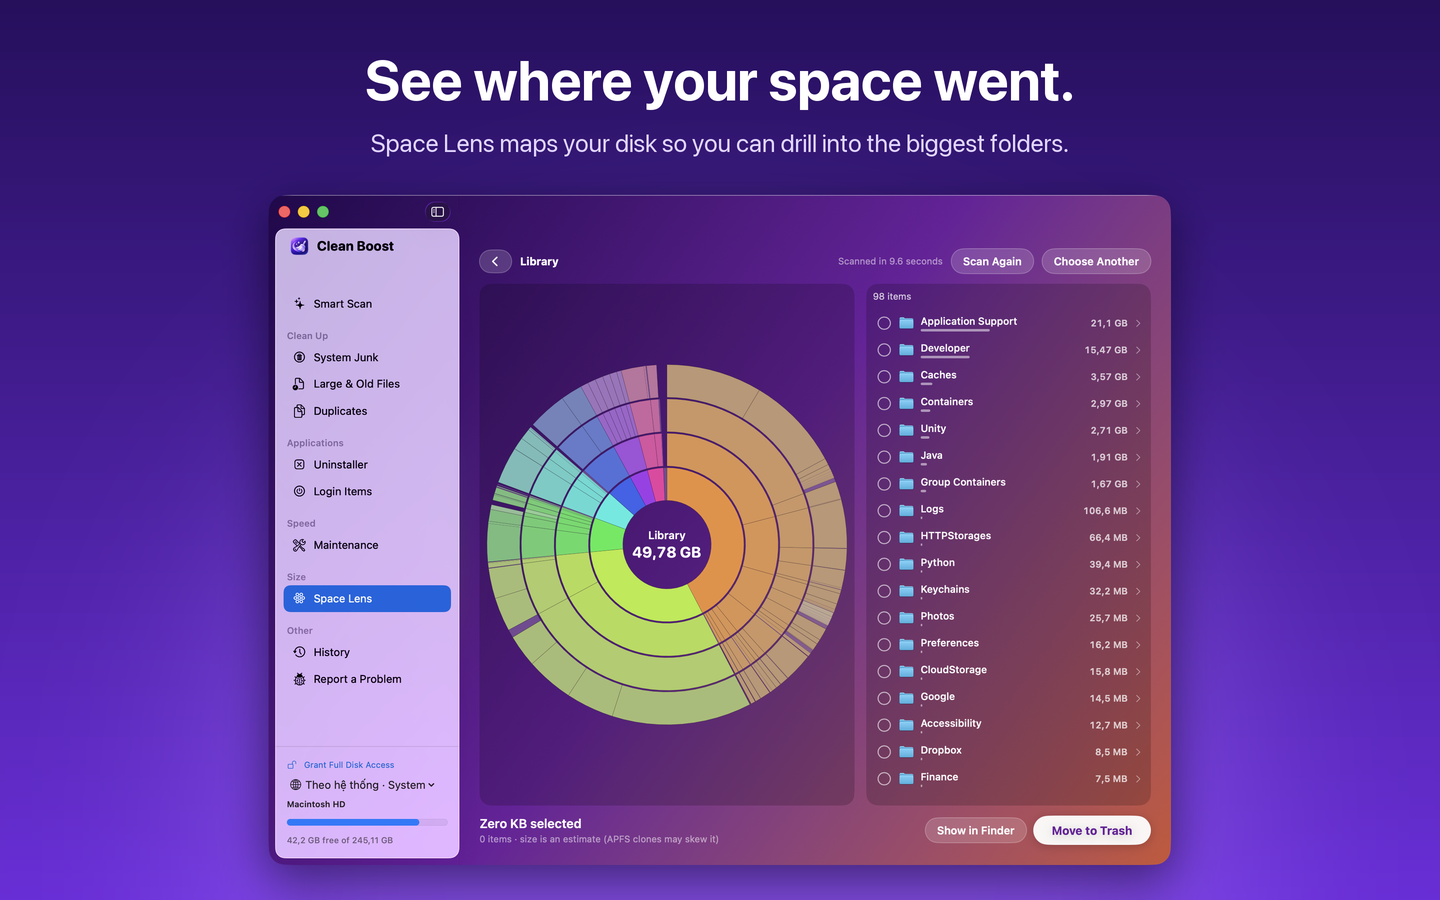
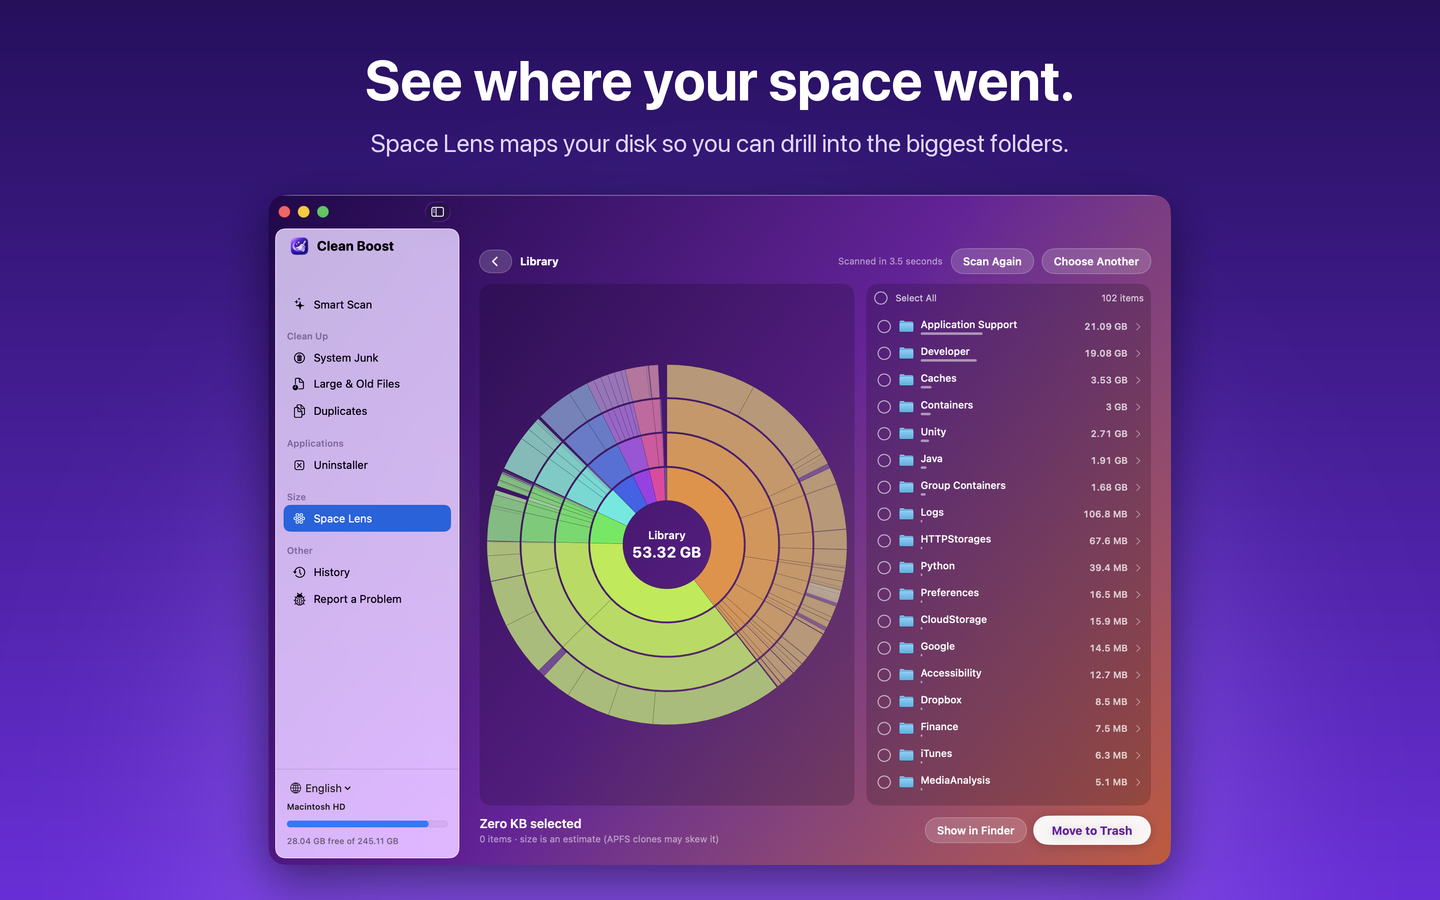
hjhih

diff --git a/Packages/Features/LargeOldFiles/LargeOldFilesUI/LargeOldFilesView.swift b/Packages/Features/LargeOldFiles/LargeOldFilesUI/LargeOldFilesView.swift
@@ -38,6 +38,7 @@ final class LargeOldFilesViewModel: ScanCleanViewModel {
 /// Màn Large & Old Files (mục 11.7): thanh lọc, bảng, chọn tay, chuyển vào Thùng rác qua Clean Engine.
 public struct LargeOldFilesView: View {
     @StateObject private var model: LargeOldFilesViewModel
+    private let autoStart: Bool
 
     public static let appearance = FeatureAppearance(
         accent: .files, symbol: "doc.badge.clock",
@@ -46,8 +47,9 @@ public struct LargeOldFilesView: View {
         cleanTitle: String(localized: "Chuyển vào Thùng rác")
     )
 
-    public init(services: ScanServices, feature: LargeOldFilesFeature) {
+    public init(services: ScanServices, feature: LargeOldFilesFeature, autoStart: Bool = false) {
         _model = StateObject(wrappedValue: LargeOldFilesViewModel(services: services, feature: feature))
+        self.autoStart = autoStart
     }
 
     public var body: some View {
@@ -73,6 +75,9 @@ public struct LargeOldFilesView: View {
                 }
             }
             .padding(24)
+        }
+        .onAppear {
+            if autoStart, case .idle = model.phase { model.startScan() }
         }
         .sheet(item: $model.permanentDeletePrompt) { prompt in
             PermanentDeleteConfirm(prompt: prompt)

diff --git a/Packages/Features/Duplicates/DuplicatesUI/DuplicatesView.swift b/Packages/Features/Duplicates/DuplicatesUI/DuplicatesView.swift
@@ -78,6 +78,7 @@ final class DuplicatesViewModel: ScanCleanViewModel {
 /// Màn Duplicates (mục 11.8).
 public struct DuplicatesView: View {
     @StateObject private var model: DuplicatesViewModel
+    private let autoStart: Bool
 
     public static let appearance = FeatureAppearance(
         accent: .files, symbol: "doc.on.doc",
@@ -86,8 +87,9 @@ public struct DuplicatesView: View {
         scanTitle: String(localized: "Tìm"), cleanTitle: String(localized: "Chuyển vào Thùng rác")
     )
 
-    public init(services: ScanServices, feature: DuplicatesFeature) {
+    public init(services: ScanServices, feature: DuplicatesFeature, autoStart: Bool = false) {
         _model = StateObject(wrappedValue: DuplicatesViewModel(services: services, feature: feature))
+        self.autoStart = autoStart
     }
 
     public var body: some View {
@@ -113,6 +115,9 @@ public struct DuplicatesView: View {
                 }
             }
             .padding(24)
+        }
+        .onAppear {
+            if autoStart, case .idle = model.phase { model.startScan() }
         }
         .alert(String(localized: "Chọn hết mọi bản trong nhóm?"), isPresented: $model.confirmAllSelected) {
             Button(String(localized: "Huỷ"), role: .cancel) {}

diff --git a/App/Sources/RootView.swift b/App/Sources/RootView.swift
@@ -69,9 +69,11 @@ struct RootView: View {
             SystemJunkView(services: env.services, feature: env.systemJunk, autoStart: router.autoStartTarget == .systemJunk)
                 .id(router.autoStartTarget == .systemJunk ? router.autoStartToken : 0)
         case .largeOldFiles:
-            LargeOldFilesView(services: env.services, feature: env.largeOldFiles)
+            LargeOldFilesView(services: env.services, feature: env.largeOldFiles, autoStart: router.autoStartTarget == .largeOldFiles)
+                .id(router.autoStartTarget == .largeOldFiles ? router.autoStartToken : 0)
         case .duplicates:
-            DuplicatesView(services: env.services, feature: env.duplicates)
+            DuplicatesView(services: env.services, feature: env.duplicates, autoStart: router.autoStartTarget == .duplicates)
+                .id(router.autoStartTarget == .duplicates ? router.autoStartToken : 0)
         case .uninstaller:
             UninstallerView(services: env.services, feature: env.uninstaller, initialAppPath: router.uninstallPath)
                 .id(router.uninstallerID)

diff --git a/Packages/Foundation/SweepIPC/HelperClient.swift b/Packages/Foundation/SweepIPC/HelperClient.swift
@@ -193,7 +193,13 @@ public enum HelperInstaller {
             SMAppService.openSystemSettingsLoginItems()
             return .requiresApproval
         case .notRegistered, .notFound:
-            try service.register()
+            do {
+                try service.register()
+            } catch {
+                // Người dùng đã tắt helper trong Login Items: register lỗi, cần bật lại bằng tay.
+                guard service.status == .requiresApproval else { throw error }
+            }
+            if service.status == .requiresApproval { SMAppService.openSystemSettingsLoginItems() }
             return status
         @unknown default:
             return status
@@ -202,7 +208,7 @@ public enum HelperInstaller {
 
     public static func reinstall() async throws {
         try? await service.unregister()
-        try service.register()
+        try ensureRegistered()
     }
 
     public static func unregister() async throws {

diff --git a/Packages/Features/SmartScan/SmartScanUI/SmartScanView.swift b/Packages/Features/SmartScan/SmartScanUI/SmartScanView.swift
@@ -38,7 +38,9 @@ public struct SmartScanView: View {
     public static let appearance = FeatureAppearance(
         accent: .smartScan, symbol: "sparkles",
         title: "Smart Scan",
-        subtitle: String(localized: "Một lần quét cho cả máy: dọn rác an toàn, gợi ý bảo trì, tìm file sót của ứng dụng."),
+        subtitle: AppEdition.isAppStore
+            ? String(localized: "Một lần quét cho cả máy: dọn rác an toàn, tìm file sót của ứng dụng.")
+            : String(localized: "Một lần quét cho cả máy: dọn rác an toàn, gợi ý bảo trì, tìm file sót của ứng dụng."),
         scanTitle: String(localized: "Quét"), cleanTitle: String(localized: "Chạy")
     )
 

diff --git a/Packages/Features/Maintenance/MaintenanceUI/MaintenanceView.swift b/Packages/Features/Maintenance/MaintenanceUI/MaintenanceView.swift
@@ -131,7 +131,13 @@ public struct MaintenanceView: View {
                     .font(Theme.Font.body).foregroundStyle(Theme.secondaryText)
             }
             Spacer()
-            Button { model.refresh() } label: { Label(String(localized: "Làm mới"), systemImage: "arrow.clockwise") }
+            Button { model.refresh() } label: {
+                if model.loading {
+                    HStack(spacing: 6) { ProgressView().controlSize(.small); Text(String(localized: "Làm mới")) }
+                } else {
+                    Label(String(localized: "Làm mới"), systemImage: "arrow.clockwise")
+                }
+            }
                 .buttonStyle(GlassButtonStyle()).disabled(model.loading)
         }
     }

diff --git a/Packages/Features/SmartScan/SmartScanDomain/SmartScanFeature.swift b/Packages/Features/SmartScan/SmartScanDomain/SmartScanFeature.swift
@@ -61,7 +61,8 @@ public struct SmartScanFeature: Sendable {
             byCard[summary.card, default: ([], [])].0.append(summary)
             byCard[summary.card, default: ([], [])].1 += nodes
         }
-        return SmartScanCard.allCases.map { card in
+        // Chỉ thẻ có feature đóng góp: bản App Store không có Bảo trì/Login Items nên không hiện thẻ Bảo trì.
+        return SmartScanCard.allCases.filter { byCard[$0] != nil }.map { card in
             SmartScanCardSummary(card: card, features: byCard[card]?.0 ?? [], nodes: byCard[card]?.1 ?? [])
         }
     }

diff --git a/Packages/Features/Uninstaller/UninstallerUI/UninstallerView.swift b/Packages/Features/Uninstaller/UninstallerUI/UninstallerView.swift
@@ -205,7 +205,6 @@ struct AppRow: View {
 
     private static let relative: RelativeDateTimeFormatter = {
         let f = RelativeDateTimeFormatter()
-        f.locale = Locale(identifier: "vi")
         f.unitsStyle = .short
         return f
     }()

diff --git a/design/AppStore/compose.py b/design/AppStore/compose.py
@@ -8,11 +8,12 @@ def font(size, weight):
     except Exception: pass
     return f
 SHOTS = [
- ("01-smartscan",   "One scan. A cleaner Mac.",            "Smart Scan finds junk, maintenance tasks and app leftovers in seconds."),
+ ("01-smartscan",   "One scan. A cleaner Mac.",            "Smart Scan finds safe junk and app leftovers in seconds."),
  ("02-systemjunk",  "Know what every byte is.",            "Each item explains what it is, which app it belongs to, and why it's safe."),
  ("03-uninstaller", "Uninstall apps completely.",          "Remove apps together with every leftover file they scattered around."),
  ("04-spacelens",   "See where your space went.",          "Space Lens maps your disk so you can drill into the biggest folders."),
- ("05-maintenance", "Keep your Mac running smoothly.",     "Flush DNS, free up RAM, reindex Spotlight — only when it's actually needed."),
+ ("05-largeoldfiles", "Find large & forgotten files.",     "Filter by size, kind and last opened. Nothing is preselected — you decide."),
+ ("06-duplicates",  "Clear out duplicate files.",          "Identical files are matched by content, so you only keep one copy."),
 ]
 W, H = 2880, 1800
 def background():
